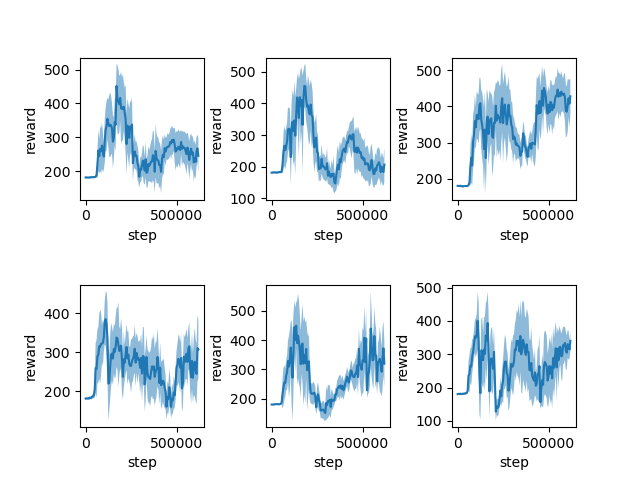
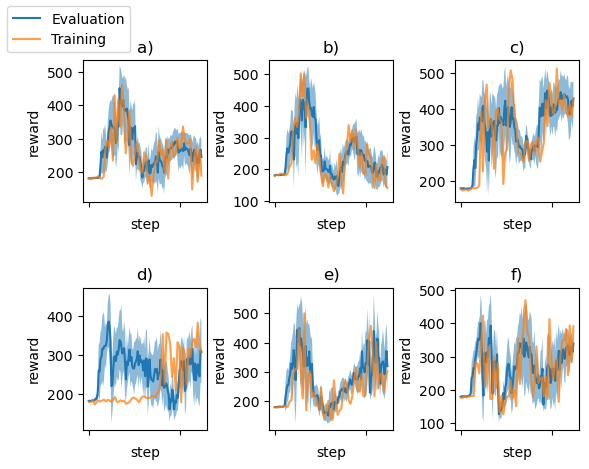
plot changes

diff --git a/MainText/environment.tex b/MainText/environment.tex
@@ -80,9 +80,11 @@ The optimized hyper-parameters include the lambda, or the GAE parameter used to 
 
 \section{Methodology, Training, \& Evaluation}
 
-PPO was trained for 10,000,000 steps using the parameters from Table~\ref{table:ppo_parameters} 7 times with different seeds, thereby generating 7 different training trajectories. The parameter from Table~\ref{table:ppo_parameters} were generated using distributed optimization with Optuna and OptunaExplorer. The episode reward, the advantage, and the discounted rewards were recorded during training. For every 5000 training steps the model is evaluated for 100 episodes where the average and standard deviation of the episode reward are aggregated and recorded. The 7th run's best model is saved for later evaluation. The training metrics are stored via TensorBoard then converted to CSV format via a custom callback that outputs a plot and CSV file of the accumulated data. All current and historical data and code is available though the GitHub page, \href{https://github.com/anhydrous99/Thesis}{https://github.com/anhydrous99/Thesis}.
+PPO-Clip was trained for 10,000,000 steps 7 different times with different seeds, thereby generating 7 different best models and training trajectories. The parameters from Table~\ref{table:ppo_parameters} were, as said before, generated using distributed optimization with Optuna. These parameters were used for all runs. The episode reward, the advantage, and the discounted rewards were recorded during training; these are referred to as the training metrics. For every 5000 training steps the model is evaluated using a custom callback class that runs the environment with the current model for 100 episodes it then calculates the average and standard deviation and these 100 episode's total reward. This results the generation of an average and standard deviation sample every 5000 training steps; these samples are referred to as the evaluation metrics. The 7th run's best model is then saved for later evaluation. the training metrics are recorded and stored via a TensorBoard feature of stable-baselines then converted to CSV format. The evaluation metrics, from the custom class, are recorded and stored also in a separate CSV file. All current and historical data and code is available through the GitHub page, \href{https://github.com/anhydrous99/Thesis}{https://github.com/anhydrous99/Thesis}.
 
-PPO2 from the stable-baselines library was used which is a parallel implementation of the PPO-Clip algorithm. In it's source code it is called "GPU version" due to it's parallel nature and it's improved efficiency within GPUs. The stable-baselines library is build atop Google's Tensorflow 1.x library, a popular Machine Learning library.
+PPO2 from the stable-baselines library was used which is a parallel implementation of the PPO-Clip algorithm. In it's source code it is called "GPU version" due to it's parallel nature and it's improved efficiency within GPUs. The stable-baselines library is build atop Tensorflow, a popular Machine Learning library.
+
+Figure~\ref{fig:validation_runs} shows the training plots for the first 6 out of 7 training runs. The Evaluation and Training reward for most runs stayed relatively close with the exception of plot d), which was unable to converge. As shown in plots a), b), c), e), and f), PPO was able to reach either a global or local peak then promptly degrade in reward performance. This could be due to PPO's attempt at exploration, trying to find a thrust and angle delta which works better. Only c) is able to recover and stay relatively stable afterwards. In Table~\ref{table:best_evaluation_rewards}, run 1 correlates with a), 2 with b), etc... . Table~\ref{table:best_evaluation_rewards} shows that while most of the runs are unable retain their training the best model trained evaluates to above a reward of 400 with the fitted normal probability distribution's $\mu$, shown in Figure~\ref{fig:norm_hist_reward}, evaluated at 430.411.
 
 \begin{table}
 	\centering
@@ -96,13 +98,14 @@ PPO2 from the stable-baselines library was used which is a parallel implementati
 		6 & 400.421 \\\hline
 		7 & 421.122 \\\hline
 	\end{tabular}
-	\caption{ The best model's average reward per run. This average reward is calculated over 100 episodes. }\label{table:best_evaluation_rewards}
+	\caption{The best model's average reward per run. This average reward is calculated over 100 episodes.}
+	\label{table:best_evaluation_rewards}
 \end{table}
 
 \begin{figure}
 	\centering
 	\includegraphics{TestPlot}
-	\caption{Six plots, one for each training run excluding the last run, showing the results of the evaluation steps.}
+	\caption{These 6 plot shows the first 6 run's evaluation and training reward history for the 10,000,000 steps labeled as a), b), c), d), e), and f). The blue line shows the average reward from the evaluation steps at that step, the blue area shows the standard deviation from the evaluation steps, the orange line shows the interpolated reward for the evaluation step, or ever 5000 steps. }
 	\label{fig:validation_runs}
 \end{figure}
 

diff --git a/Scripts/plot_data_test.py b/Scripts/plot_data_test.py
@@ -1,22 +1,36 @@
 import seaborn as sns
 import pandas as pd
+import numpy as np
 import matplotlib.pyplot as plt
+import scipy.interpolate
 grid = plt.GridSpec(2, 3, wspace=0.5, hspace=0.6)
 
 
-def plot(path, i, j):
+def plot(path, path2, i, j, lbl='a'):
     df = pd.read_csv(path)
+    df2 = pd.read_csv(path2)
+    df2['Step'] = df2['Step'] * df['i'].iloc[-1] / df2['Step'].iloc[-1]
     df.rename(columns={'i': 'step', 'avg': 'reward'}, inplace=True)
-    plt.subplot(grid[i, j])
-    ax = sns.lineplot(x='step', y='reward', data=df)
+    ax = plt.subplot(grid[i, j])
+    sns.lineplot(x='step', y='reward', data=df)
     ax.fill_between(df['step'], y1=df['reward'] - df['std'], y2=df['reward'] + df['std'], alpha=.5)
 
+    # Smoothing
+    new_x = np.linspace(df2['Step'].min(), df2['Step'].max(), len(df['step'])//2)
+    x_tmp = np.linspace(df2['Step'].min(), df2['Step'].max(), len(df2['Step']))
+    interp_f = scipy.interpolate.interp1d(x_tmp, df2['Value'], kind='slinear')
+    new_y = interp_f(new_x)
+    sns.lineplot(x=new_x, y=new_y, alpha=0.75)
+    plt.title(lbl)
+    ax.set_xticklabels([])
 
-plot('../Data/data.csv', 0, 0)
-plot('../Data/data_1.csv', 0, 1)
-plot('../Data/data_2.csv', 0, 2)
-plot('../Data/data_3.csv', 1, 0)
-plot('../Data/data_4.csv', 1, 1)
-plot('../Data/data_5.csv', 1, 2)
-plt.savefig('../Plots/TestPlot.png')
+
+plot('../Data/data.csv', '../Data/run-PPO2_1-tag-episode_reward.csv', 0, 0, 'a)')
+plot('../Data/data_1.csv', '../Data/run-PPO2_2-tag-episode_reward.csv', 0, 1, 'b)')
+plot('../Data/data_2.csv', '../Data/run-PPO2_3-tag-episode_reward.csv', 0, 2, 'c)')
+plot('../Data/data_3.csv', '../Data/run-PPO2_4-tag-episode_reward.csv', 1, 0, 'd)')
+plot('../Data/data_4.csv', '../Data/run-PPO2_5-tag-episode_reward.csv', 1, 1, 'e)')
+plot('../Data/data_5.csv', '../Data/run-PPO2_6-tag-episode_reward.csv', 1, 2, 'f)')
+plt.figlegend(('Evaluation', 'Training'), loc='upper left')
+plt.savefig('../Plots/TestPlot.png', bbox_inches='tight')
 plt.show()
